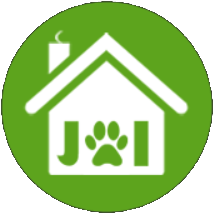
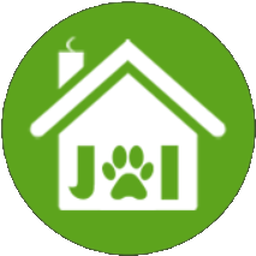
Provide HACS-compatible branding

diff --git a/ChangeLog.md b/ChangeLog.md
@@ -6,7 +6,7 @@
 
     Release date:
 
-    -
+    - Provide compliant 1x and 2x icons for HACS branding
 
 ### 0.3.0
 
